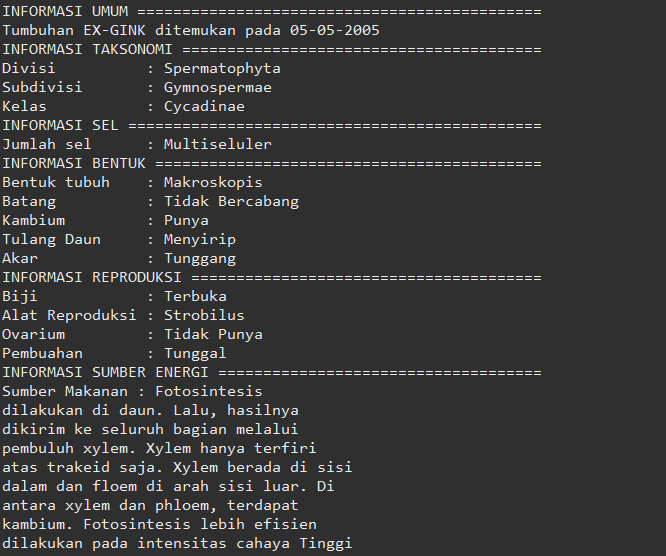
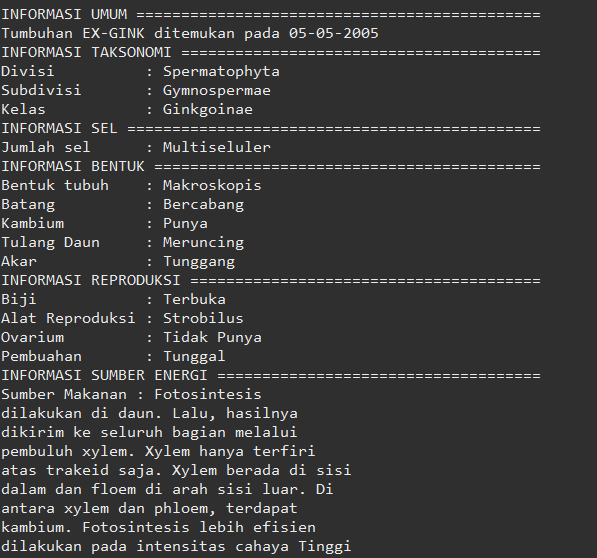
Perbaikan output duplikat

Changed region(s): [[0.0, 0.0, 0.9045, 1.0]]

diff --git a/modul5/Jurnal1.java b/modul5/Jurnal1.java
@@ -253,8 +253,8 @@ public class Jurnal1 {
 		tumbuhan exDico = new tumbuhan("EX-DICO","02-02-2002",dico);
 		tumbuhan exCyca = new tumbuhan("EX-CYCA","03-03-2003",cyca);
 		tumbuhan exConi = new tumbuhan("EX-CONI","04-04-2004",coni);
-		tumbuhan exGink = new tumbuhan("EX-GINK","05-05-2005",cyca);
-		tumbuhan exGnet = new tumbuhan("EX-GNET","06-06-2006",coni);
+		tumbuhan exGink = new tumbuhan("EX-GINK","05-05-2005",gink);
+		tumbuhan exGnet = new tumbuhan("EX-GNET","06-06-2006",gnet);
 		
 		exMono.informasi_umum();
 		exMono.informasi_taksonomi();
@@ -291,11 +291,11 @@ public class Jurnal1 {
 		exGink.informasi_reproduksi();
 		exGink.informasi_sumber_energi();
 	
-		exGink.informasi_umum();
-		exGink.informasi_taksonomi();
-		exGink.informasi_sel();
-		exGink.informasi_bentuk();
-		exGink.informasi_reproduksi();
-		exGink.informasi_sumber_energi();
+		exGnet.informasi_umum();
+		exGnet.informasi_taksonomi();
+		exGnet.informasi_sel();
+		exGnet.informasi_bentuk();
+		exGnet.informasi_reproduksi();
+		exGnet.informasi_sumber_energi();
 	}
 }
